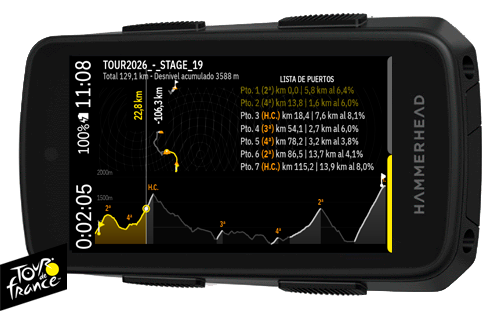
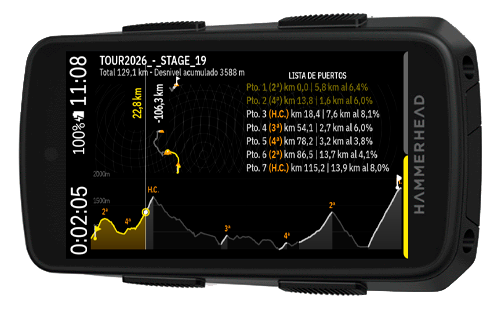
docs(art): actualizar imagenes de perfil TV con insignias del Tour, Giro y Vuelta

diff --git a/README.md b/README.md
@@ -22,7 +22,7 @@ Revoluciona el concepto tradicional de altimetría ciclista incorporando una **S
 <p align="center">
   <img src="https://raw.githubusercontent.com/DAVOE75/ALTGRAPH/main/art/perfiltv.png" width="250" alt="TV Profile Amarillo" />
   <img src="https://raw.githubusercontent.com/DAVOE75/ALTGRAPH/main/art/perfiltv1.png" width="250" alt="TV Profile Rosa" />
-  <img src="https://raw.githubusercontent.com/DAVOE75/ALTGRAPH/main/art/perfilvve.png" width="250" alt="TV Profile Rojo" />
+  <img src="https://raw.githubusercontent.com/DAVOE75/ALTGRAPH/main/art/perfiltvve.png" width="250" alt="TV Profile Rojo" />
 </p>
 
 ## 🚀 VERSIÓN 1.0.44: PACING DINÁMICO Y DIFUMINADO 🚀

diff --git a/README_en.md b/README_en.md
@@ -21,7 +21,7 @@ It revolutionizes the traditional concept of cycling altimetry by incorporating 
 <p align="center">
   <img src="https://raw.githubusercontent.com/DAVOE75/ALTGRAPH/main/art/perfiltv.png" width="250" alt="TV Profile Yellow" />
   <img src="https://raw.githubusercontent.com/DAVOE75/ALTGRAPH/main/art/perfiltv1.png" width="250" alt="TV Profile Pink" />
-  <img src="https://raw.githubusercontent.com/DAVOE75/ALTGRAPH/main/art/perfilvve.png" width="250" alt="TV Profile Red" />
+  <img src="https://raw.githubusercontent.com/DAVOE75/ALTGRAPH/main/art/perfiltvve.png" width="250" alt="TV Profile Red" />
 </p>
 
 ## 🚀 VERSION 1.0.44: DYNAMIC PACING (POWER GUIDE) 🚀
